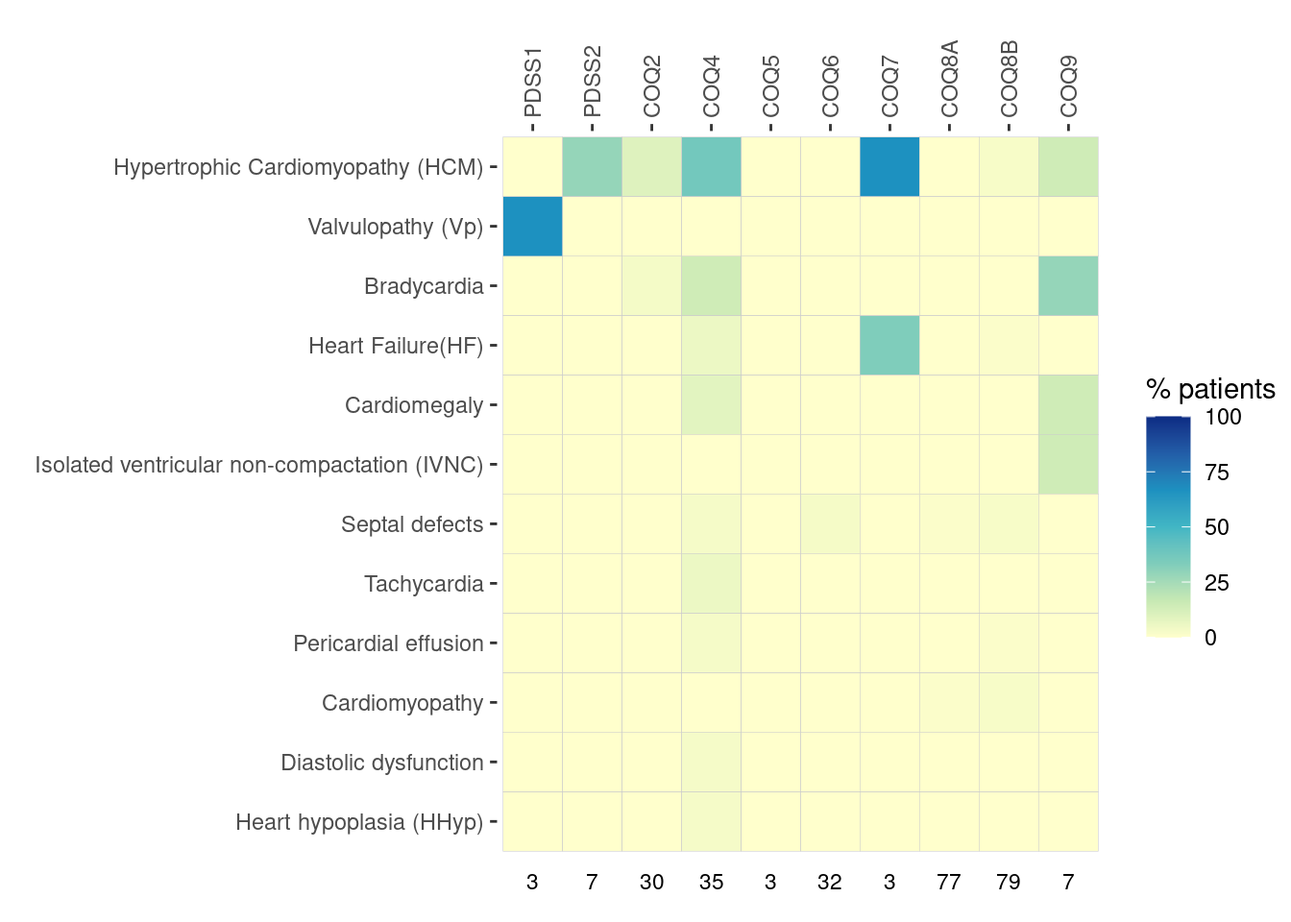
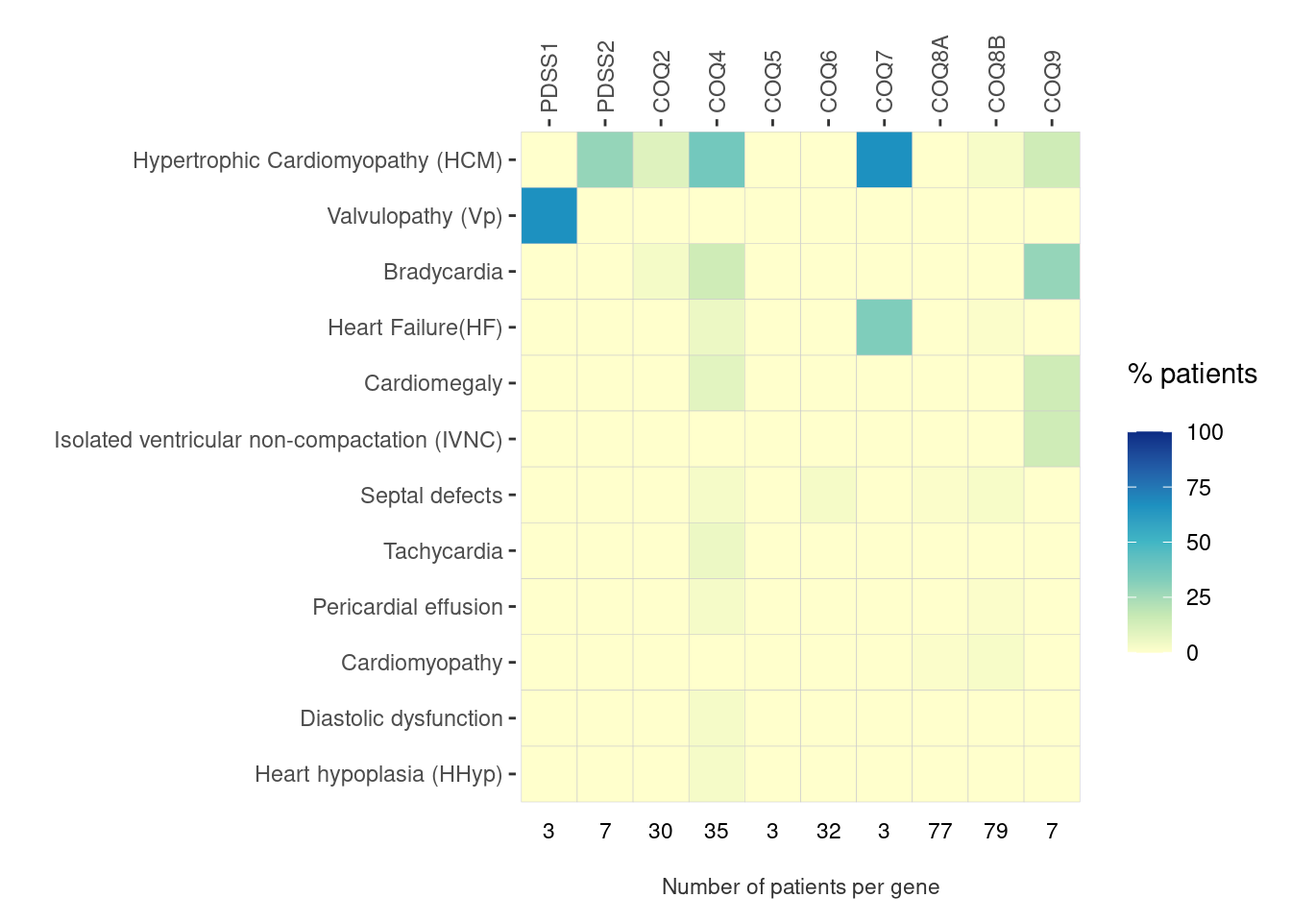
add "Number of patients per gene" as bottom axis title. Close #3

diff --git a/docs/Table.html b/docs/Table.html
@@ -361,8 +361,8 @@ $(document).ready(function () {
 
 
 <p>In this table you can search by symptom (and link to symptom description). Numbers represent number of patients.</p>
-<div id="htmlwidget-5cab611cca762b416d75" style="width:100%;height:auto;" class="datatables html-widget"></div>
-<script type="application/json" data-for="htmlwidget-5cab611cca762b416d75">{"x":{"filter":"top","filterHTML":"<tr>\n  <td data-type=\"character\" style=\"vertical-align: top;\">\n    <div class=\"form-group has-feedback\" style=\"margin-bottom: auto;\">\n      <input type=\"search\" placeholder=\"All\" class=\"form-control\" style=\"width: 100%;\"/>\n      <span class=\"glyphicon glyphicon-remove-circle form-control-feedback\"><\/span>\n    <\/div>\n  <\/td>\n  <td data-type=\"character\" style=\"vertical-align: top;\">\n    <div class=\"form-group has-feedback\" style=\"margin-bottom: auto;\">\n      <input type=\"search\" placeholder=\"All\" class=\"form-control\" style=\"width: 100%;\"/>\n      <span class=\"glyphicon glyphicon-remove-circle form-control-feedback\"><\/span>\n    <\/div>\n  <\/td>\n  <td data-type=\"number\" style=\"vertical-align: top;\">\n    <div class=\"form-group has-feedback\" style=\"margin-bottom: auto;\">\n      <input type=\"search\" placeholder=\"All\" class=\"form-control\" style=\"width: 100%;\"/>\n      <span class=\"glyphicon glyphicon-remove-circle form-control-feedback\"><\/span>\n    <\/div>\n    <div style=\"display: none; position: absolute; width: 200px;\">\n      <div data-min=\"0\" data-max=\"2\"><\/div>\n      <span style=\"float: left;\"><\/span>\n      <span style=\"float: right;\"><\/span>\n    <\/div>\n  <\/td>\n  <td data-type=\"number\" style=\"vertical-align: top;\">\n    <div class=\"form-group has-feedback\" style=\"margin-bottom: auto;\">\n      <input type=\"search\" placeholder=\"All\" class=\"form-control\" style=\"width: 100%;\"/>\n      <span class=\"glyphicon glyphicon-remove-circle form-control-feedback\"><\/span>\n    <\/div>\n    <div style=\"display: none; position: absolute; width: 200px;\">\n      <div data-min=\"0\" data-max=\"7\"><\/div>\n      <span style=\"float: left;\"><\/span>\n      <span style=\"float: right;\"><\/span>\n    <\/div>\n  <\/td>\n  <td data-type=\"number\" style=\"vertical-align: top;\">\n    <div class=\"form-group has-feedback\" style=\"margin-bottom: auto;\">\n      <input type=\"search\" placeholder=\"All\" class=\"form-control\" style=\"width: 100%;\"/>\n      <span class=\"glyphicon glyphicon-remove-circle form-control-feedback\"><\/span>\n    <\/div>\n    <div style=\"display: none; position: absolute; width: 200px;\">\n      <div data-min=\"0\" data-max=\"26\"><\/div>\n      <span style=\"float: left;\"><\/span>\n      <span style=\"float: right;\"><\/span>\n    <\/div>\n  <\/td>\n  <td data-type=\"number\" style=\"vertical-align: top;\">\n    <div class=\"form-group has-feedback\" style=\"margin-bottom: auto;\">\n      <input type=\"search\" placeholder=\"All\" class=\"form-control\" style=\"width: 100%;\"/>\n      <span class=\"glyphicon glyphicon-remove-circle form-control-feedback\"><\/span>\n    <\/div>\n    <div style=\"display: none; position: absolute; width: 200px;\">\n      <div data-min=\"0\" data-max=\"19\"><\/div>\n      <span style=\"float: left;\"><\/span>\n      <span style=\"float: right;\"><\/span>\n    <\/div>\n  <\/td>\n  <td data-type=\"number\" style=\"vertical-align: top;\">\n    <div class=\"form-group has-feedback\" style=\"margin-bottom: auto;\">\n      <input type=\"search\" placeholder=\"All\" class=\"form-control\" style=\"width: 100%;\"/>\n      <span class=\"glyphicon glyphicon-remove-circle form-control-feedback\"><\/span>\n    <\/div>\n    <div style=\"display: none; position: absolute; width: 200px;\">\n      <div data-min=\"0\" data-max=\"3\"><\/div>\n      <span style=\"float: left;\"><\/span>\n      <span style=\"float: right;\"><\/span>\n    <\/div>\n  <\/td>\n  <td data-type=\"number\" style=\"vertical-align: top;\">\n    <div class=\"form-group has-feedback\" style=\"margin-bottom: auto;\">\n      <input type=\"search\" placeholder=\"All\" class=\"form-control\" style=\"width: 100%;\"/>\n      <span class=\"glyphicon glyphicon-remove-circle form-control-feedback\"><\/span>\n    <\/div>\n    <div style=\"display: none; position: absolute; width: 200px;\">\n      <div data-min=\"0\" data-max=\"26\"><\/div>\n      <span style=\"float: left;\"><\/span>\n      <span style=\"float: right;\"><\/span>\n    <\/div>\n  <\/td>\n  <td data-type=\"number\" style=\"vertical-align: top;\">\n    <div class=\"form-group has-feedback\" style=\"margin-bottom: auto;\">\n      <input type=\"search\" placeholder=\"All\" class=\"form-control\" style=\"width: 100%;\"/>\n      <span class=\"glyphicon glyphicon-remove-circle form-control-feedback\"><\/span>\n    <\/div>\n    <div style=\"display: none; position: absolute; width: 200px;\">\n      <div data-min=\"0\" data-max=\"3\"><\/div>\n      <span style=\"float: left;\"><\/span>\n      <span style=\"float: right;\"><\/span>\n    <\/div>\n  <\/td>\n  <td data-type=\"number\" style=\"vertical-align: top;\">\n    <div class=\"form-group has-feedback\" style=\"margin-bottom: auto;\">\n      <input type=\"search\" placeholder=\"All\" class=\"form-control\" style=\"width: 100%;\"/>\n      <span class=\"glyphicon glyphicon-remove-circle form-control-feedback\"><\/span>\n    <\/div>\n    <div style=\"display: none; position: absolute; width: 200px;\">\n      <div data-min=\"0\" data-max=\"70\"><\/div>\n      <span style=\"float: left;\"><\/span>\n      <span style=\"float: right;\"><\/span>\n    <\/div>\n  <\/td>\n  <td data-type=\"number\" style=\"vertical-align: top;\">\n    <div class=\"form-group has-feedback\" style=\"margin-bottom: auto;\">\n      <input type=\"search\" placeholder=\"All\" class=\"form-control\" style=\"width: 100%;\"/>\n      <span class=\"glyphicon glyphicon-remove-circle form-control-feedback\"><\/span>\n    <\/div>\n    <div style=\"display: none; position: absolute; width: 200px;\">\n      <div data-min=\"0\" data-max=\"65\"><\/div>\n      <span style=\"float: left;\"><\/span>\n      <span style=\"float: right;\"><\/span>\n    <\/div>\n  <\/td>\n  <td data-type=\"number\" style=\"vertical-align: top;\">\n    <div class=\"form-group has-feedback\" style=\"margin-bottom: auto;\">\n      <input type=\"search\" placeholder=\"All\" class=\"form-control\" style=\"width: 100%;\"/>\n      <span class=\"glyphicon glyphicon-remove-circle form-control-feedback\"><\/span>\n    <\/div>\n    <div style=\"display: none; position: absolute; width: 200px;\">\n      <div data-min=\"0\" data-max=\"6\"><\/div>\n      <span style=\"float: left;\"><\/span>\n      <span style=\"float: right;\"><\/span>\n    <\/div>\n  <\/td>\n<\/tr>","data":[["CNS","CNS","CNS","CNS","CNS","CNS","CNS","CNS","CNS","CNS","CNS","CNS","CNS","CNS","CNS","CNS","CNS","CNS","CNS","CNS","CNS","CNS","CNS","CNS","CNS","CNS","CNS","CNS","CNS","CNS","CNS","CNS","CNS","CNS","CNS","CNS","CNS","CNS","CNS","CNS","CNS","CNS","Heart","Heart","Heart","Heart","Heart","Heart","Heart","Heart","Heart","Heart","Heart","Heart","Kidney","Kidney","Kidney","Kidney","Kidney","Kidney","Kidney","Kidney","Kidney","Kidney","Kidney","Liver","Liver","Liver","Liver","Liver","Lung","Lung","Lung","Lung","Lung","Lung","Lung","Muscle","Muscle","Muscle","Muscle","Muscle","Other","Other","Other","Other","Other","Other","Other","Other","Other","Other","Other","Other","Other","Other","Other","Other","Other","Other","Other","Other","Other","Other","Other","PNS/sensory organs","PNS/sensory organs","PNS/sensory organs","PNS/sensory organs","PNS/sensory organs","PNS/sensory organs","PNS/sensory organs","PNS/sensory organs","PNS/sensory organs","PNS/sensory organs","PNS/sensory organs","PNS/sensory organs","PNS/sensory organs","PNS/sensory organs","PNS/sensory organs"],["Autosomal recessive cerebellar ataxia 2 (ARCA2)","Basal ganglia lesions (BGL)","Cerebellar atrophy (CAt)","Cerebellar hypoplasia (CHyp)","Cerebral atrophy","Cerebral Hypoplasia","Cerebral palsy","Chorea","Depression","Deteriorated ambulation (DAmb)","Developmental delay(DD)","Dysarthria (Dy)","Dysdiadochokinesia","Dysmetria","Dystonia","Encephalopathy","Epilepsy (Ep)","Gait instability (GI)","Headaches","Hypotonia (Ht)","Impaired Handwriting (IH)","Intellectual deficiency (ID)","Leigh-like Syndrome (LS)","Migraine","Multifocal global ischemic events (MGIE)","Muscle stiffness (MS)","Myoclonus (My)","Non-visual pursuit (nVP)","Nystagmus (Ny)","Opisthotonus","Ptosis (Pt)","Pyramidal syndrome","Saccadic eye movements (SEM)","Seizures (Sz)","Slow ocular pursuit","Spams","Spasticity (Sp)","Sporadic Multisystem Atrophy (MSA)","Strabismus","Stroke-like lessions (SLL)","Thalamic hypoplasia (THyp)","Tremor (Tr)","Bradycardia","Cardiomegaly","Cardiomyopathy","Heart Failure(HF)","Heart hypoplasia (HHyp)","Hypertrophic Cardiomyopathy (HCM)","Isolated ventricular non-compactation (IVNC)","Pericardial effusion","Septal defects","Tachycardia","Valvulopathy (Vp)","Diastolic dysfunction","Chronic kidney disease (CKD)","Dysplastic kidneys","End-stage Renal Disease (ESRD)","Enlarged kidneys","Hematuria","Kidney dysfunction (KD)","Medullary nephrocalcinosis (MNC)","Only Proteinuria","Renal cysts","Steroid resistant nephrotic syndrome (SRNS)","Tubulopathy (Tp)","Cholestatic Liver","Hepatomegaly","Hepatosteatosis","Liver failure (LF)","Reduced hematopoiesis in liver","Respiratory distress (RD)","Neonatal Pneumonia","Respiratory failure (RF)","Apnea","Chronic Lung Disease (CLD)","Recurrent Respiratory infections","Lung Hypoplasia (LHyp)","Exercise intolerance (EI)","Lipid accumulation in muscle (LAM)","Muscle fatigue (MF)","Muscle weakness (MW)","Myopathy","Dysmorphic features","Edema","Diabetes Mellitus (DM)","Obesity","Hypercholesterolemia","Goiter","Hypothyroidism","Cyanosis","Hypertension (HT)","Hypotension","Livedo Reticularis (LR)","Dyspnea","Circulatory collapse","Noctural enuresis","Polyuria","Polidypsia","Coma","Hypospadias","Lupus-like symptoms","Oligohydramnios","Recurrent Otitis","Splenomegaly","Crohn's Disease (CD)","Astigmatism","Cataracts","Delayed visual maturation","Hearing impairment","Hearing Loss (HL)","Hypermetropia","Myopia","Optic Nerve Atrophy (OA)","Peripheral Neuropathy (PNSN)","Retinitis Pigmentosa (RP)","Retinopathy (Rp)","Rod-Cone dysfunction","Sensorineural hearing loss (SNHL)","Visual aureas","Visual dysfunction"],[0,0,0,0,0,0,0,0,0,0,1,0,0,0,0,2,0,0,0,0,0,2,0,0,0,0,0,0,0,0,0,0,0,0,0,0,0,0,0,0,0,0,0,0,0,0,0,0,0,0,0,0,2,0,0,0,1,0,0,0,0,0,0,1,0,0,0,0,0,0,0,0,0,0,0,0,0,0,0,0,0,0,0,0,0,2,0,0,0,0,1,0,2,0,0,0,0,0,0,0,0,0,0,0,0,0,0,0,0,0,0,0,2,2,0,0,0,2,0,0],[3,1,0,0,0,0,1,0,0,0,1,0,0,0,1,1,0,0,0,2,0,3,1,0,0,0,0,0,2,0,0,1,0,1,0,0,1,0,0,0,0,0,0,0,0,0,0,2,0,0,0,0,0,0,0,0,2,0,0,0,0,0,0,7,0,0,0,0,0,0,0,1,0,0,0,0,0,0,0,0,0,0,0,2,0,0,0,0,0,0,1,0,0,0,0,0,0,0,0,0,0,0,0,0,0,0,1,0,0,0,0,2,1,0,2,0,0,4,0,2],[0,1,1,0,0,0,0,0,0,0,2,0,0,0,2,9,4,0,0,6,0,0,0,0,0,1,2,1,3,0,0,0,0,11,0,0,0,0,0,2,0,1,1,0,0,0,0,3,0,0,0,0,0,0,1,0,10,0,0,2,0,1,0,26,1,1,0,0,3,0,2,0,5,2,1,1,0,0,1,0,1,0,0,11,6,0,2,0,0,0,1,0,0,0,0,0,0,0,0,0,0,4,0,0,0,0,0,0,0,0,0,0,1,0,0,2,0,0,0,0],[4,5,8,10,6,1,0,0,0,6,18,2,2,2,6,11,9,0,0,19,0,6,2,0,0,0,1,0,1,0,0,0,1,19,0,2,8,0,0,2,1,2,5,3,0,2,1,13,0,1,1,2,0,1,0,0,0,0,0,0,0,0,0,0,0,0,0,0,0,0,14,0,5,9,0,1,0,0,0,0,0,2,1,0,0,0,0,0,0,2,0,2,0,0,1,0,0,0,1,0,0,1,0,0,0,0,0,1,2,1,0,0,0,1,0,0,0,0,0,6],[3,0,3,0,0,0,0,0,0,0,2,3,0,2,0,3,1,0,0,0,0,3,0,0,0,0,2,0,3,0,0,0,1,2,0,0,1,0,0,0,0,1,0,0,0,0,0,0,0,0,0,0,0,0,0,0,0,0,0,0,0,0,0,0,0,0,0,0,0,0,0,0,0,0,0,0,0,0,0,0,0,0,0,0,0,0,0,0,0,0,0,0,0,0,0,0,0,0,0,0,0,0,0,0,0,0,0,0,0,0,0,0,0,0,0,0,0,0,0,0],[1,0,0,0,0,0,0,0,0,0,4,0,0,0,0,1,0,0,0,1,0,1,0,0,0,0,0,0,1,0,1,0,0,2,0,0,0,0,0,0,0,0,0,0,0,0,0,0,0,0,1,0,0,0,2,0,16,0,0,0,0,0,0,26,0,0,0,0,0,0,0,0,0,0,0,0,0,0,0,0,3,0,1,2,0,0,1,0,0,0,1,0,0,0,0,0,0,0,0,0,0,0,0,0,0,0,0,0,0,0,0,0,1,0,0,0,0,18,0,1],[0,1,0,0,1,0,0,0,0,0,3,0,0,0,0,1,0,0,0,3,0,1,0,0,0,0,0,1,0,0,1,0,0,0,0,1,1,0,0,0,0,0,0,0,0,1,0,2,0,0,0,0,0,0,0,1,0,0,0,1,0,0,1,0,0,0,0,0,0,0,2,0,0,0,0,0,1,0,0,0,3,1,1,0,0,0,0,0,0,0,1,0,0,0,0,0,0,0,0,0,0,2,0,0,0,0,0,0,0,0,0,0,0,2,0,0,0,3,0,2],[70,0,62,2,0,0,0,2,3,0,13,27,8,21,14,2,15,16,0,7,11,35,0,5,0,0,14,0,9,0,3,1,14,19,1,0,8,0,4,6,0,33,0,0,1,0,0,0,0,0,1,0,0,0,0,0,0,0,0,0,0,0,0,0,0,0,0,1,0,0,0,0,0,0,0,1,0,14,3,3,13,1,1,0,0,0,1,0,0,0,0,0,0,0,0,0,0,0,0,0,0,0,0,0,0,0,1,0,0,0,0,0,0,0,0,0,1,2,1,1],[0,0,0,0,0,0,0,0,0,0,1,0,0,0,0,1,2,0,4,0,0,4,0,0,0,0,0,0,0,0,0,0,0,4,0,0,0,0,0,0,0,0,0,0,2,1,0,2,0,1,2,0,0,0,18,0,47,1,8,1,7,7,0,65,0,0,1,0,0,0,0,0,0,0,0,0,0,0,0,1,1,0,1,16,0,0,1,2,1,0,11,0,0,1,0,2,1,1,0,1,1,0,1,1,1,2,0,0,0,0,2,0,0,0,1,0,0,0,0,1],[0,1,1,1,0,0,0,0,0,0,6,0,0,0,1,3,0,0,0,2,0,0,2,0,1,1,0,0,0,1,0,0,0,3,0,0,0,0,0,0,0,0,2,1,0,0,0,1,1,0,0,0,0,0,0,0,0,1,0,0,0,0,2,0,1,0,0,0,0,1,3,0,0,2,0,0,0,0,0,0,0,0,1,0,0,0,0,0,0,1,1,0,0,0,0,0,0,0,0,0,0,3,0,0,0,0,0,0,0,0,0,0,0,0,0,0,0,0,0,0]],"container":"<table class=\"display\">\n  <thead>\n    <tr>\n      <th>group<\/th>\n      <th>symptom<\/th>\n      <th>PDSS1<\/th>\n      <th>PDSS2<\/th>\n      <th>COQ2<\/th>\n      <th>COQ4<\/th>\n      <th>COQ5<\/th>\n      <th>COQ6<\/th>\n      <th>COQ7<\/th>\n      <th>COQ8A<\/th>\n      <th>COQ8B<\/th>\n      <th>COQ9<\/th>\n    <\/tr>\n  <\/thead>\n<\/table>","options":{"columnDefs":[{"className":"dt-right","targets":[2,3,4,5,6,7,8,9,10,11]}],"order":[],"autoWidth":false,"orderClasses":false,"orderCellsTop":true}},"evals":[],"jsHooks":[]}</script>
+<div id="htmlwidget-c0d28155d7afb2cf075a" style="width:100%;height:auto;" class="datatables html-widget"></div>
+<script type="application/json" data-for="htmlwidget-c0d28155d7afb2cf075a">{"x":{"filter":"top","filterHTML":"<tr>\n  <td data-type=\"character\" style=\"vertical-align: top;\">\n    <div class=\"form-group has-feedback\" style=\"margin-bottom: auto;\">\n      <input type=\"search\" placeholder=\"All\" class=\"form-control\" style=\"width: 100%;\"/>\n      <span class=\"glyphicon glyphicon-remove-circle form-control-feedback\"><\/span>\n    <\/div>\n  <\/td>\n  <td data-type=\"character\" style=\"vertical-align: top;\">\n    <div class=\"form-group has-feedback\" style=\"margin-bottom: auto;\">\n      <input type=\"search\" placeholder=\"All\" class=\"form-control\" style=\"width: 100%;\"/>\n      <span class=\"glyphicon glyphicon-remove-circle form-control-feedback\"><\/span>\n    <\/div>\n  <\/td>\n  <td data-type=\"number\" style=\"vertical-align: top;\">\n    <div class=\"form-group has-feedback\" style=\"margin-bottom: auto;\">\n      <input type=\"search\" placeholder=\"All\" class=\"form-control\" style=\"width: 100%;\"/>\n      <span class=\"glyphicon glyphicon-remove-circle form-control-feedback\"><\/span>\n    <\/div>\n    <div style=\"display: none; position: absolute; width: 200px;\">\n      <div data-min=\"0\" data-max=\"2\"><\/div>\n      <span style=\"float: left;\"><\/span>\n      <span style=\"float: right;\"><\/span>\n    <\/div>\n  <\/td>\n  <td data-type=\"number\" style=\"vertical-align: top;\">\n    <div class=\"form-group has-feedback\" style=\"margin-bottom: auto;\">\n      <input type=\"search\" placeholder=\"All\" class=\"form-control\" style=\"width: 100%;\"/>\n      <span class=\"glyphicon glyphicon-remove-circle form-control-feedback\"><\/span>\n    <\/div>\n    <div style=\"display: none; position: absolute; width: 200px;\">\n      <div data-min=\"0\" data-max=\"7\"><\/div>\n      <span style=\"float: left;\"><\/span>\n      <span style=\"float: right;\"><\/span>\n    <\/div>\n  <\/td>\n  <td data-type=\"number\" style=\"vertical-align: top;\">\n    <div class=\"form-group has-feedback\" style=\"margin-bottom: auto;\">\n      <input type=\"search\" placeholder=\"All\" class=\"form-control\" style=\"width: 100%;\"/>\n      <span class=\"glyphicon glyphicon-remove-circle form-control-feedback\"><\/span>\n    <\/div>\n    <div style=\"display: none; position: absolute; width: 200px;\">\n      <div data-min=\"0\" data-max=\"26\"><\/div>\n      <span style=\"float: left;\"><\/span>\n      <span style=\"float: right;\"><\/span>\n    <\/div>\n  <\/td>\n  <td data-type=\"number\" style=\"vertical-align: top;\">\n    <div class=\"form-group has-feedback\" style=\"margin-bottom: auto;\">\n      <input type=\"search\" placeholder=\"All\" class=\"form-control\" style=\"width: 100%;\"/>\n      <span class=\"glyphicon glyphicon-remove-circle form-control-feedback\"><\/span>\n    <\/div>\n    <div style=\"display: none; position: absolute; width: 200px;\">\n      <div data-min=\"0\" data-max=\"19\"><\/div>\n      <span style=\"float: left;\"><\/span>\n      <span style=\"float: right;\"><\/span>\n    <\/div>\n  <\/td>\n  <td data-type=\"number\" style=\"vertical-align: top;\">\n    <div class=\"form-group has-feedback\" style=\"margin-bottom: auto;\">\n      <input type=\"search\" placeholder=\"All\" class=\"form-control\" style=\"width: 100%;\"/>\n      <span class=\"glyphicon glyphicon-remove-circle form-control-feedback\"><\/span>\n    <\/div>\n    <div style=\"display: none; position: absolute; width: 200px;\">\n      <div data-min=\"0\" data-max=\"3\"><\/div>\n      <span style=\"float: left;\"><\/span>\n      <span style=\"float: right;\"><\/span>\n    <\/div>\n  <\/td>\n  <td data-type=\"number\" style=\"vertical-align: top;\">\n    <div class=\"form-group has-feedback\" style=\"margin-bottom: auto;\">\n      <input type=\"search\" placeholder=\"All\" class=\"form-control\" style=\"width: 100%;\"/>\n      <span class=\"glyphicon glyphicon-remove-circle form-control-feedback\"><\/span>\n    <\/div>\n    <div style=\"display: none; position: absolute; width: 200px;\">\n      <div data-min=\"0\" data-max=\"26\"><\/div>\n      <span style=\"float: left;\"><\/span>\n      <span style=\"float: right;\"><\/span>\n    <\/div>\n  <\/td>\n  <td data-type=\"number\" style=\"vertical-align: top;\">\n    <div class=\"form-group has-feedback\" style=\"margin-bottom: auto;\">\n      <input type=\"search\" placeholder=\"All\" class=\"form-control\" style=\"width: 100%;\"/>\n      <span class=\"glyphicon glyphicon-remove-circle form-control-feedback\"><\/span>\n    <\/div>\n    <div style=\"display: none; position: absolute; width: 200px;\">\n      <div data-min=\"0\" data-max=\"3\"><\/div>\n      <span style=\"float: left;\"><\/span>\n      <span style=\"float: right;\"><\/span>\n    <\/div>\n  <\/td>\n  <td data-type=\"number\" style=\"vertical-align: top;\">\n    <div class=\"form-group has-feedback\" style=\"margin-bottom: auto;\">\n      <input type=\"search\" placeholder=\"All\" class=\"form-control\" style=\"width: 100%;\"/>\n      <span class=\"glyphicon glyphicon-remove-circle form-control-feedback\"><\/span>\n    <\/div>\n    <div style=\"display: none; position: absolute; width: 200px;\">\n      <div data-min=\"0\" data-max=\"70\"><\/div>\n      <span style=\"float: left;\"><\/span>\n      <span style=\"float: right;\"><\/span>\n    <\/div>\n  <\/td>\n  <td data-type=\"number\" style=\"vertical-align: top;\">\n    <div class=\"form-group has-feedback\" style=\"margin-bottom: auto;\">\n      <input type=\"search\" placeholder=\"All\" class=\"form-control\" style=\"width: 100%;\"/>\n      <span class=\"glyphicon glyphicon-remove-circle form-control-feedback\"><\/span>\n    <\/div>\n    <div style=\"display: none; position: absolute; width: 200px;\">\n      <div data-min=\"0\" data-max=\"65\"><\/div>\n      <span style=\"float: left;\"><\/span>\n      <span style=\"float: right;\"><\/span>\n    <\/div>\n  <\/td>\n  <td data-type=\"number\" style=\"vertical-align: top;\">\n    <div class=\"form-group has-feedback\" style=\"margin-bottom: auto;\">\n      <input type=\"search\" placeholder=\"All\" class=\"form-control\" style=\"width: 100%;\"/>\n      <span class=\"glyphicon glyphicon-remove-circle form-control-feedback\"><\/span>\n    <\/div>\n    <div style=\"display: none; position: absolute; width: 200px;\">\n      <div data-min=\"0\" data-max=\"6\"><\/div>\n      <span style=\"float: left;\"><\/span>\n      <span style=\"float: right;\"><\/span>\n    <\/div>\n  <\/td>\n<\/tr>","data":[["CNS","CNS","CNS","CNS","CNS","CNS","CNS","CNS","CNS","CNS","CNS","CNS","CNS","CNS","CNS","CNS","CNS","CNS","CNS","CNS","CNS","CNS","CNS","CNS","CNS","CNS","CNS","CNS","CNS","CNS","CNS","CNS","CNS","CNS","CNS","CNS","CNS","CNS","CNS","CNS","CNS","CNS","Heart","Heart","Heart","Heart","Heart","Heart","Heart","Heart","Heart","Heart","Heart","Heart","Kidney","Kidney","Kidney","Kidney","Kidney","Kidney","Kidney","Kidney","Kidney","Kidney","Kidney","Liver","Liver","Liver","Liver","Liver","Lung","Lung","Lung","Lung","Lung","Lung","Lung","Muscle","Muscle","Muscle","Muscle","Muscle","Other","Other","Other","Other","Other","Other","Other","Other","Other","Other","Other","Other","Other","Other","Other","Other","Other","Other","Other","Other","Other","Other","Other","PNS/sensory organs","PNS/sensory organs","PNS/sensory organs","PNS/sensory organs","PNS/sensory organs","PNS/sensory organs","PNS/sensory organs","PNS/sensory organs","PNS/sensory organs","PNS/sensory organs","PNS/sensory organs","PNS/sensory organs","PNS/sensory organs","PNS/sensory organs","PNS/sensory organs"],["Autosomal recessive cerebellar ataxia 2 (ARCA2)","Basal ganglia lesions (BGL)","Cerebellar atrophy (CAt)","Cerebellar hypoplasia (CHyp)","Cerebral atrophy","Cerebral Hypoplasia","Cerebral palsy","Chorea","Depression","Deteriorated ambulation (DAmb)","Developmental delay(DD)","Dysarthria (Dy)","Dysdiadochokinesia","Dysmetria","Dystonia","Encephalopathy","Epilepsy (Ep)","Gait instability (GI)","Headaches","Hypotonia (Ht)","Impaired Handwriting (IH)","Intellectual deficiency (ID)","Leigh-like Syndrome (LS)","Migraine","Multifocal global ischemic events (MGIE)","Muscle stiffness (MS)","Myoclonus (My)","Non-visual pursuit (nVP)","Nystagmus (Ny)","Opisthotonus","Ptosis (Pt)","Pyramidal syndrome","Saccadic eye movements (SEM)","Seizures (Sz)","Slow ocular pursuit","Spams","Spasticity (Sp)","Sporadic Multisystem Atrophy (MSA)","Strabismus","Stroke-like lessions (SLL)","Thalamic hypoplasia (THyp)","Tremor (Tr)","Bradycardia","Cardiomegaly","Cardiomyopathy","Heart Failure(HF)","Heart hypoplasia (HHyp)","Hypertrophic Cardiomyopathy (HCM)","Isolated ventricular non-compactation (IVNC)","Pericardial effusion","Septal defects","Tachycardia","Valvulopathy (Vp)","Diastolic dysfunction","Chronic kidney disease (CKD)","Dysplastic kidneys","End-stage Renal Disease (ESRD)","Enlarged kidneys","Hematuria","Kidney dysfunction (KD)","Medullary nephrocalcinosis (MNC)","Only Proteinuria","Renal cysts","Steroid resistant nephrotic syndrome (SRNS)","Tubulopathy (Tp)","Cholestatic Liver","Hepatomegaly","Hepatosteatosis","Liver failure (LF)","Reduced hematopoiesis in liver","Respiratory distress (RD)","Neonatal Pneumonia","Respiratory failure (RF)","Apnea","Chronic Lung Disease (CLD)","Recurrent Respiratory infections","Lung Hypoplasia (LHyp)","Exercise intolerance (EI)","Lipid accumulation in muscle (LAM)","Muscle fatigue (MF)","Muscle weakness (MW)","Myopathy","Dysmorphic features","Edema","Diabetes Mellitus (DM)","Obesity","Hypercholesterolemia","Goiter","Hypothyroidism","Cyanosis","Hypertension (HT)","Hypotension","Livedo Reticularis (LR)","Dyspnea","Circulatory collapse","Noctural enuresis","Polyuria","Polidypsia","Coma","Hypospadias","Lupus-like symptoms","Oligohydramnios","Recurrent Otitis","Splenomegaly","Crohn's Disease (CD)","Astigmatism","Cataracts","Delayed visual maturation","Hearing impairment","Hearing Loss (HL)","Hypermetropia","Myopia","Optic Nerve Atrophy (OA)","Peripheral Neuropathy (PNSN)","Retinitis Pigmentosa (RP)","Retinopathy (Rp)","Rod-Cone dysfunction","Sensorineural hearing loss (SNHL)","Visual aureas","Visual dysfunction"],[0,0,0,0,0,0,0,0,0,0,1,0,0,0,0,2,0,0,0,0,0,2,0,0,0,0,0,0,0,0,0,0,0,0,0,0,0,0,0,0,0,0,0,0,0,0,0,0,0,0,0,0,2,0,0,0,1,0,0,0,0,0,0,1,0,0,0,0,0,0,0,0,0,0,0,0,0,0,0,0,0,0,0,0,0,2,0,0,0,0,1,0,2,0,0,0,0,0,0,0,0,0,0,0,0,0,0,0,0,0,0,0,2,2,0,0,0,2,0,0],[3,1,0,0,0,0,1,0,0,0,1,0,0,0,1,1,0,0,0,2,0,3,1,0,0,0,0,0,2,0,0,1,0,1,0,0,1,0,0,0,0,0,0,0,0,0,0,2,0,0,0,0,0,0,0,0,2,0,0,0,0,0,0,7,0,0,0,0,0,0,0,1,0,0,0,0,0,0,0,0,0,0,0,2,0,0,0,0,0,0,1,0,0,0,0,0,0,0,0,0,0,0,0,0,0,0,1,0,0,0,0,2,1,0,2,0,0,4,0,2],[0,1,1,0,0,0,0,0,0,0,2,0,0,0,2,9,4,0,0,6,0,0,0,0,0,1,2,1,3,0,0,0,0,11,0,0,0,0,0,2,0,1,1,0,0,0,0,3,0,0,0,0,0,0,1,0,10,0,0,2,0,1,0,26,1,1,0,0,3,0,2,0,5,2,1,1,0,0,1,0,1,0,0,11,6,0,2,0,0,0,1,0,0,0,0,0,0,0,0,0,0,4,0,0,0,0,0,0,0,0,0,0,1,0,0,2,0,0,0,0],[4,5,8,10,6,1,0,0,0,6,18,2,2,2,6,11,9,0,0,19,0,6,2,0,0,0,1,0,1,0,0,0,1,19,0,2,8,0,0,2,1,2,5,3,0,2,1,13,0,1,1,2,0,1,0,0,0,0,0,0,0,0,0,0,0,0,0,0,0,0,14,0,5,9,0,1,0,0,0,0,0,2,1,0,0,0,0,0,0,2,0,2,0,0,1,0,0,0,1,0,0,1,0,0,0,0,0,1,2,1,0,0,0,1,0,0,0,0,0,6],[3,0,3,0,0,0,0,0,0,0,2,3,0,2,0,3,1,0,0,0,0,3,0,0,0,0,2,0,3,0,0,0,1,2,0,0,1,0,0,0,0,1,0,0,0,0,0,0,0,0,0,0,0,0,0,0,0,0,0,0,0,0,0,0,0,0,0,0,0,0,0,0,0,0,0,0,0,0,0,0,0,0,0,0,0,0,0,0,0,0,0,0,0,0,0,0,0,0,0,0,0,0,0,0,0,0,0,0,0,0,0,0,0,0,0,0,0,0,0,0],[1,0,0,0,0,0,0,0,0,0,4,0,0,0,0,1,0,0,0,1,0,1,0,0,0,0,0,0,1,0,1,0,0,2,0,0,0,0,0,0,0,0,0,0,0,0,0,0,0,0,1,0,0,0,2,0,16,0,0,0,0,0,0,26,0,0,0,0,0,0,0,0,0,0,0,0,0,0,0,0,3,0,1,2,0,0,1,0,0,0,1,0,0,0,0,0,0,0,0,0,0,0,0,0,0,0,0,0,0,0,0,0,1,0,0,0,0,18,0,1],[0,1,0,0,1,0,0,0,0,0,3,0,0,0,0,1,0,0,0,3,0,1,0,0,0,0,0,1,0,0,1,0,0,0,0,1,1,0,0,0,0,0,0,0,0,1,0,2,0,0,0,0,0,0,0,1,0,0,0,1,0,0,1,0,0,0,0,0,0,0,2,0,0,0,0,0,1,0,0,0,3,1,1,0,0,0,0,0,0,0,1,0,0,0,0,0,0,0,0,0,0,2,0,0,0,0,0,0,0,0,0,0,0,2,0,0,0,3,0,2],[70,0,62,2,0,0,0,2,3,0,13,27,8,21,14,2,15,16,0,7,11,35,0,5,0,0,14,0,9,0,3,1,14,19,1,0,8,0,4,6,0,33,0,0,1,0,0,0,0,0,1,0,0,0,0,0,0,0,0,0,0,0,0,0,0,0,0,1,0,0,0,0,0,0,0,1,0,14,3,3,13,1,1,0,0,0,1,0,0,0,0,0,0,0,0,0,0,0,0,0,0,0,0,0,0,0,1,0,0,0,0,0,0,0,0,0,1,2,1,1],[0,0,0,0,0,0,0,0,0,0,1,0,0,0,0,1,2,0,4,0,0,4,0,0,0,0,0,0,0,0,0,0,0,4,0,0,0,0,0,0,0,0,0,0,2,1,0,2,0,1,2,0,0,0,18,0,47,1,8,1,7,7,0,65,0,0,1,0,0,0,0,0,0,0,0,0,0,0,0,1,1,0,1,16,0,0,1,2,1,0,11,0,0,1,0,2,1,1,0,1,1,0,1,1,1,2,0,0,0,0,2,0,0,0,1,0,0,0,0,1],[0,1,1,1,0,0,0,0,0,0,6,0,0,0,1,3,0,0,0,2,0,0,2,0,1,1,0,0,0,1,0,0,0,3,0,0,0,0,0,0,0,0,2,1,0,0,0,1,1,0,0,0,0,0,0,0,0,1,0,0,0,0,2,0,1,0,0,0,0,1,3,0,0,2,0,0,0,0,0,0,0,0,1,0,0,0,0,0,0,1,1,0,0,0,0,0,0,0,0,0,0,3,0,0,0,0,0,0,0,0,0,0,0,0,0,0,0,0,0,0]],"container":"<table class=\"display\">\n  <thead>\n    <tr>\n      <th>group<\/th>\n      <th>symptom<\/th>\n      <th>PDSS1<\/th>\n      <th>PDSS2<\/th>\n      <th>COQ2<\/th>\n      <th>COQ4<\/th>\n      <th>COQ5<\/th>\n      <th>COQ6<\/th>\n      <th>COQ7<\/th>\n      <th>COQ8A<\/th>\n      <th>COQ8B<\/th>\n      <th>COQ9<\/th>\n    <\/tr>\n  <\/thead>\n<\/table>","options":{"columnDefs":[{"className":"dt-right","targets":[2,3,4,5,6,7,8,9,10,11]}],"order":[],"autoWidth":false,"orderClasses":false,"orderCellsTop":true}},"evals":[],"jsHooks":[]}</script>
 
 
 

diff --git a/docs/index.html b/docs/index.html
@@ -362,7 +362,7 @@ $(document).ready(function () {
 <p>In the tabs above you can search the frequency of clinical manifestations grouped by system for each gene.</p>
 <p>Go to <a href="Table.html">table</a> to search the data by involved system, specific manifestation or <em>COQ</em> gene.</p>
 <p>This tool is part of the review <em>GENOTYPE-PHENOTYPE CORRELATIONS IN PRIMARY COENZYME Q DEFICIENCIES</em>, María Alcázar-Fabra, Francisco Rodríguez-Sánchez, Eva Trevisson &amp; Gloria Brea-Calvo (submitted).</p>
-<p>Last update: 2021-01-24</p>
+<p>Last update: 2021-02-01</p>
 
 
 
